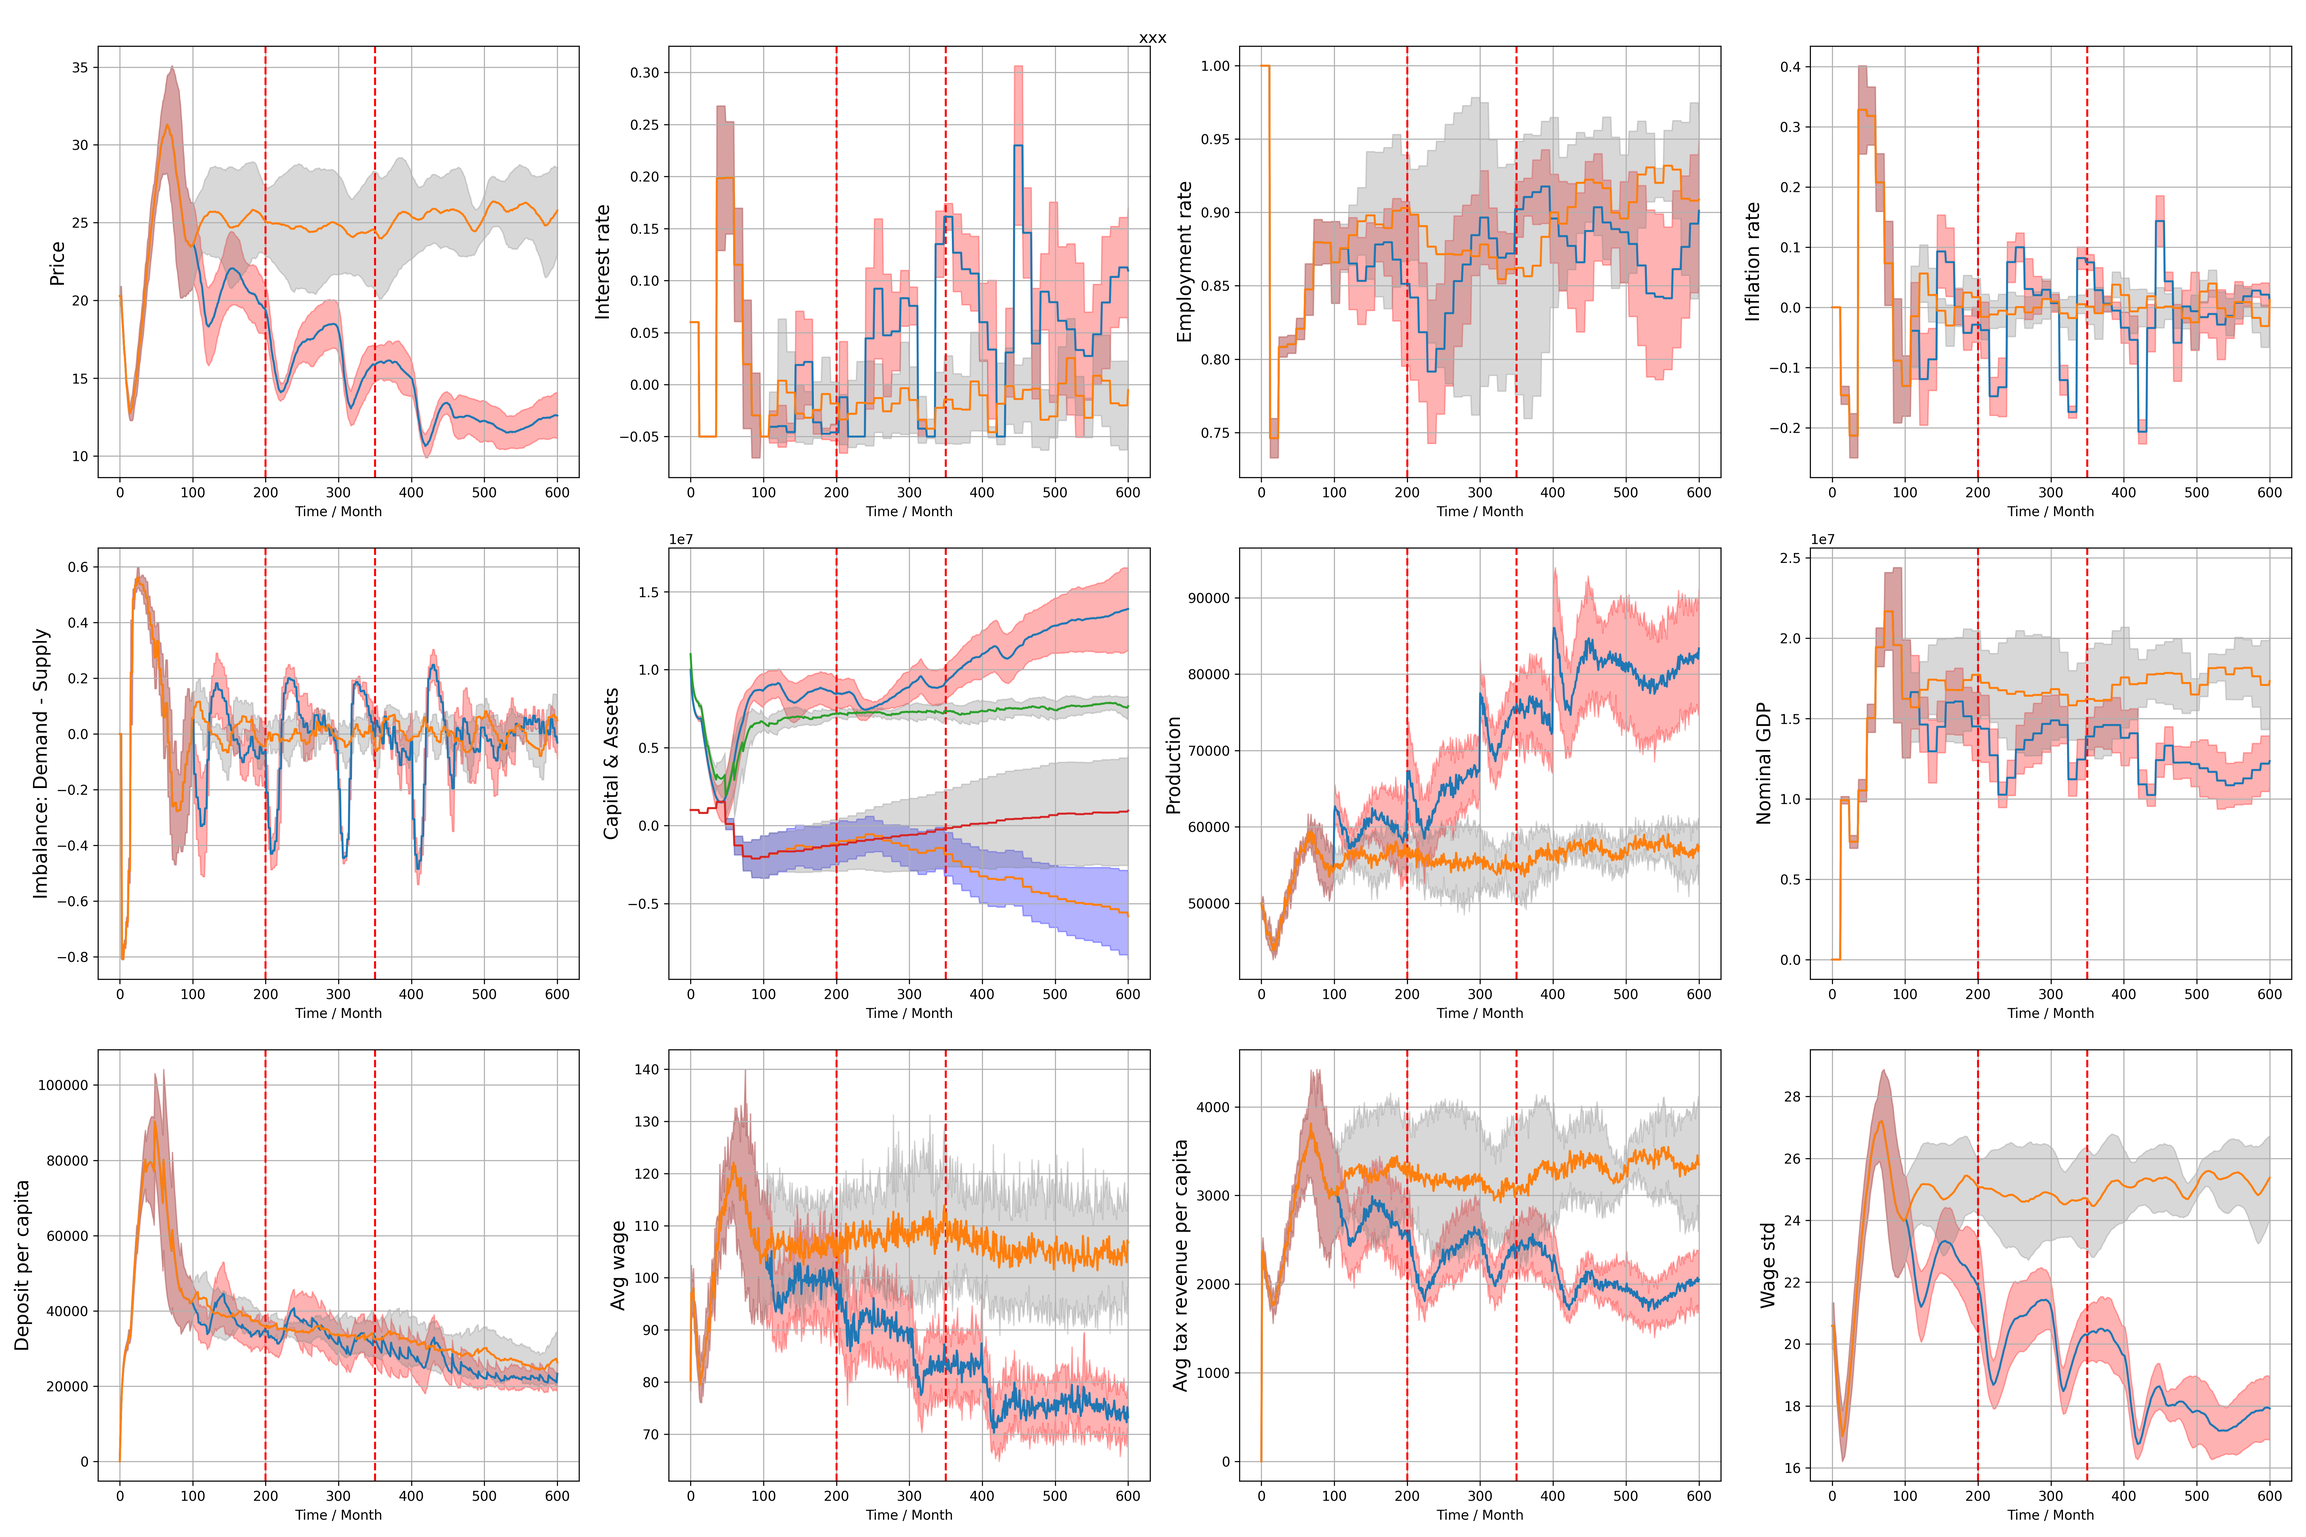
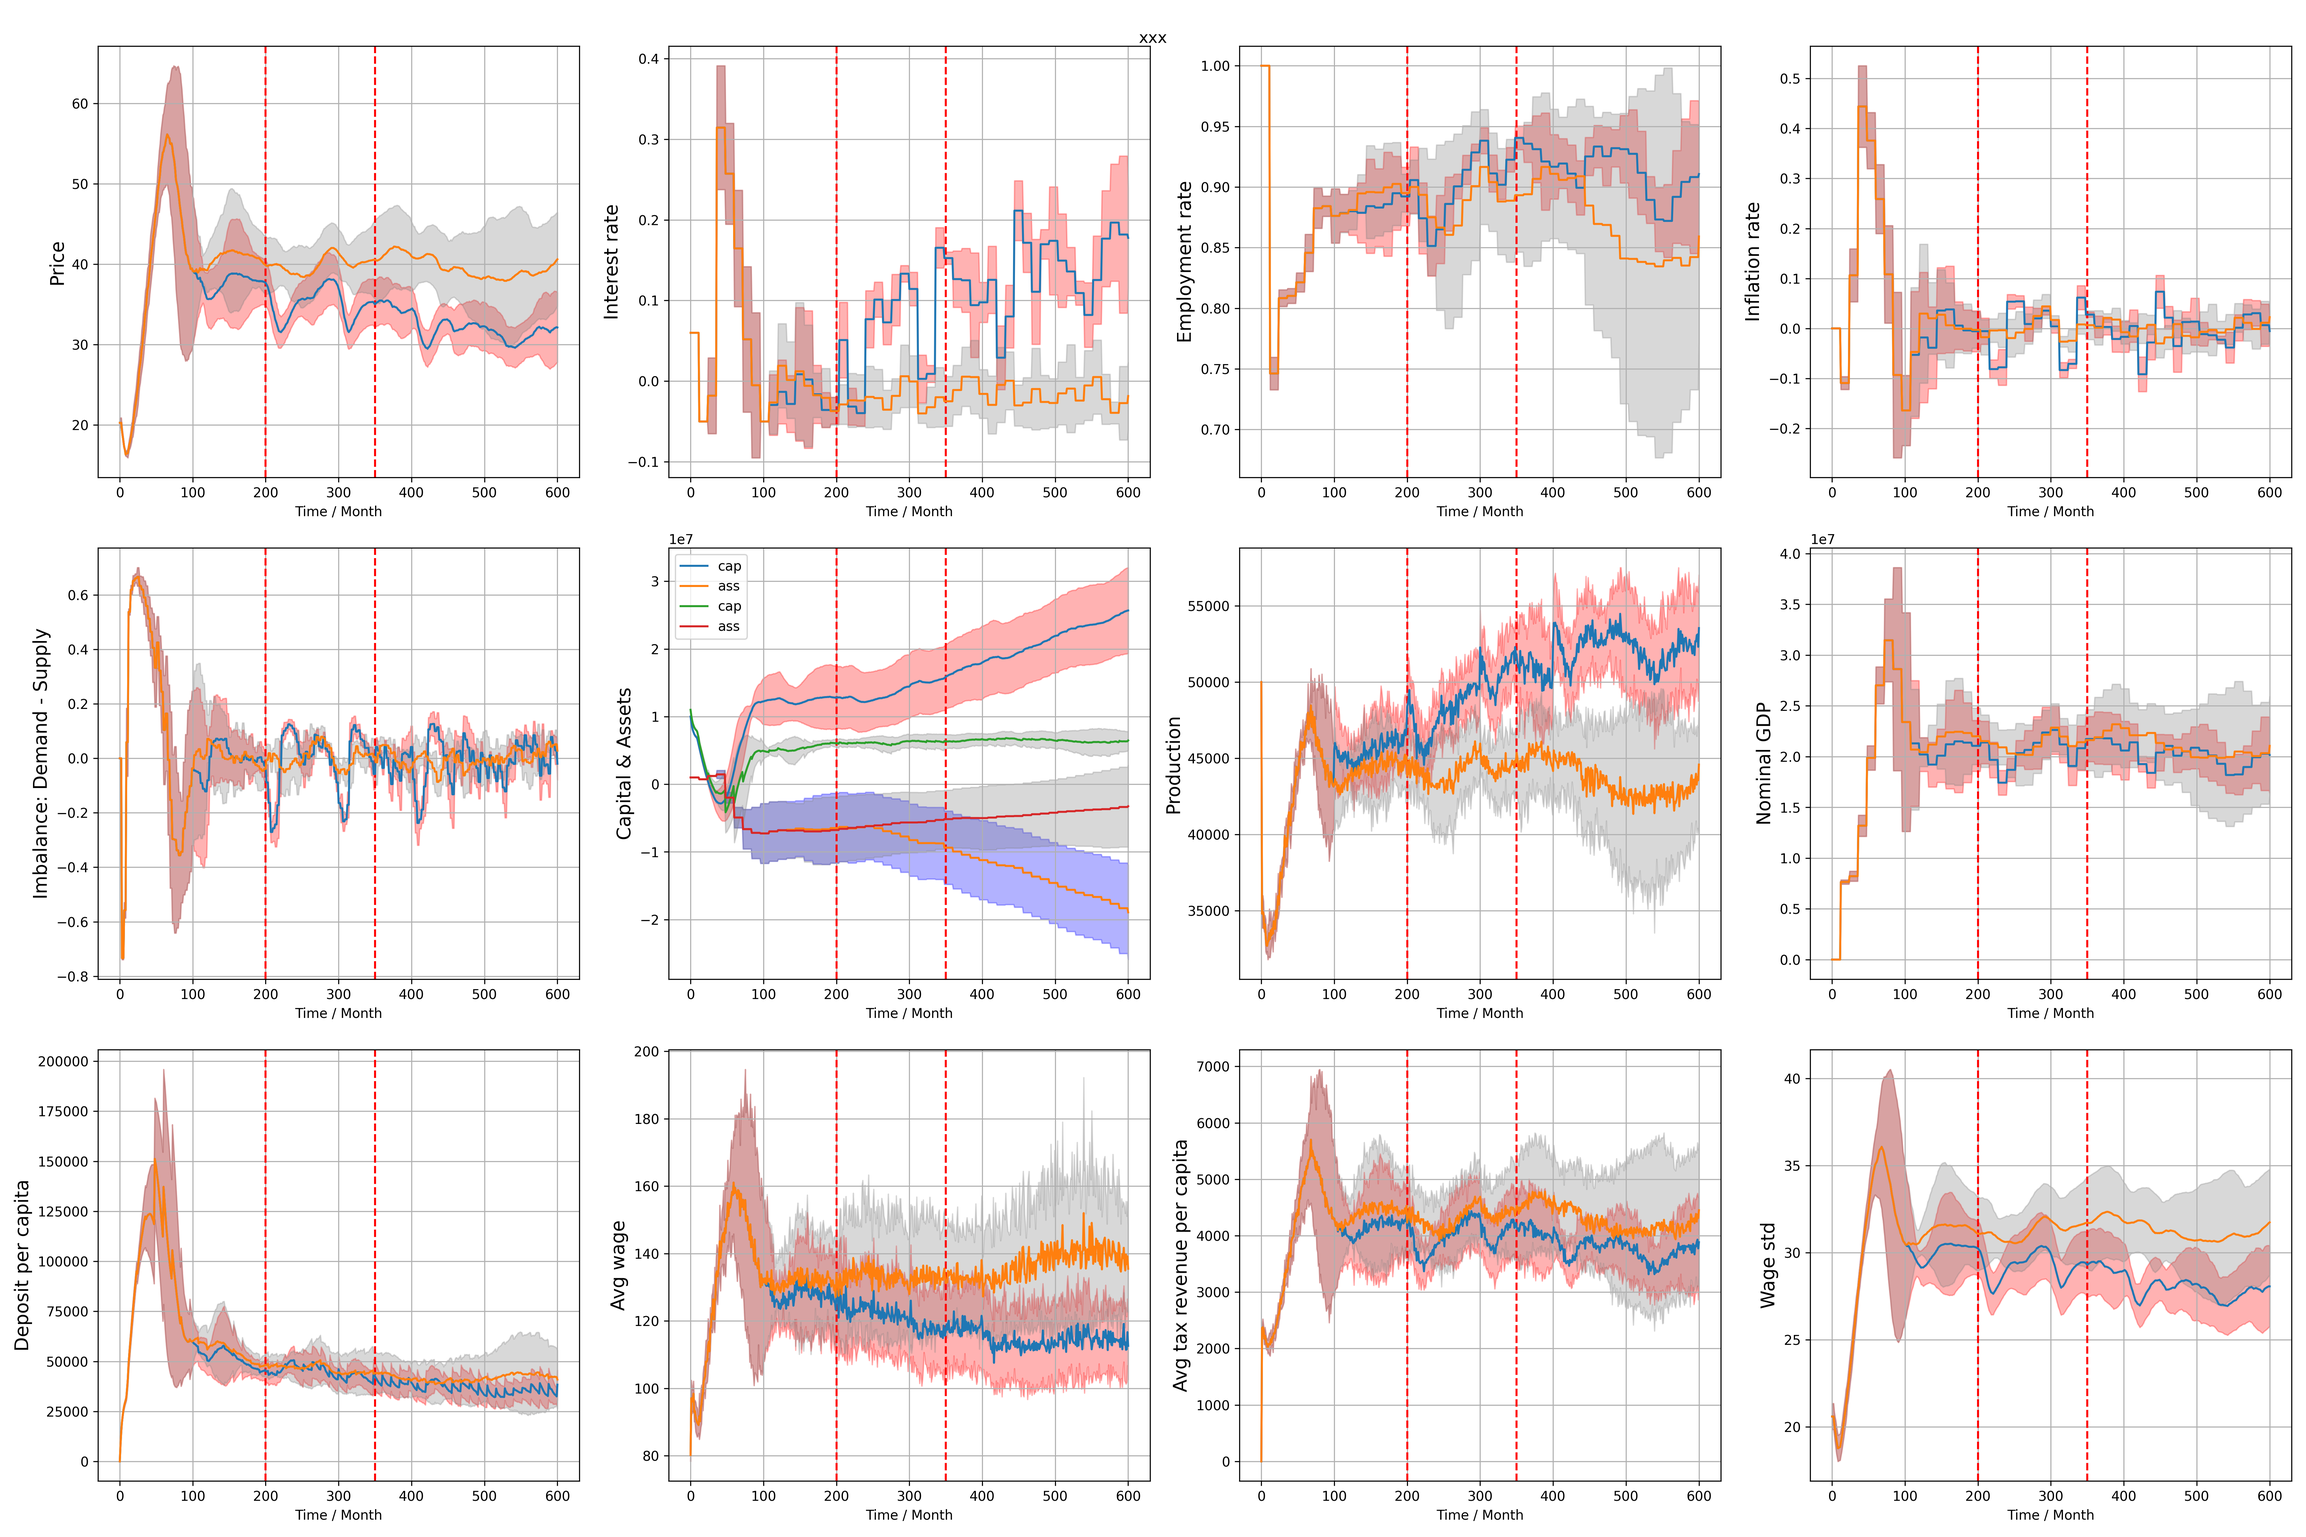
12

diff --git a/step_simulation.py b/step_simulation.py
@@ -1,0 +1,171 @@
+import numpy as np
+import random
+from utils import taxation, inflation, GDP, unemployment, init_agents, imbalance
+from copy import deepcopy
+from config import Configuration
+from src.agent import agent
+from src.firm import firm
+from src.bank import bank   
+from src.market import consumption
+
+
+
+def step_simulation(config:Configuration, event:bool, intervention:bool, step:int, length:int, firm:firm, bank:bank, agents:list[agent], log:dict[int:dict]):
+    '''simulate several steps of a simulation'''
+    random.seed(config.seed)
+    np.random.seed(config.seed)
+    
+    unem_rate = log[step]['unemployment_rate']
+    infla_rate = log[step]['inflation_rate']
+    Nominal_GDP = log[step]['GDP']
+    imba = log[step]['imbalance']
+    
+    for t in range(step+1, step+length+1):
+        ########################## 事 件 开 始 ##########################
+        # 降低就业意愿
+        # 产量减少，工资收入减少
+        # GDP下降
+        
+        # if event:
+        #     if t >= 500 and t <= 900:
+        #         work_state = []
+        #         for a in agents:
+        #             a.l = 1 if random.random() < 0.3 else 0
+        #             work_state.append(a.l)
+        
+        # if event:
+        #     if t == config.event_start:
+        #         a_pw = [a.pw for a in agents]
+
+        #     if t >= config.event_start and t <= config.event_end:
+        #         for a, pw in zip(agents, a_pw):
+        #             a.pw = (0.8 ** (1/(config.event_end-config.event_start))) ** (t-config.event_start) * pw # 在t=900时，就业意愿下降到t=500时的25%
+        #     work_state = [a.work_decision() for a in agents] # work decision
+        # else:
+        #     work_state = [a.work_decision() for a in agents] # work decision
+        work_state = [a.work_decision() for a in agents] # work decision
+        
+        if event and t in [100, 200, 300, 400]:
+            firm.k_capital *= 1.05
+            firm.k_labor = 1 - firm.k_capital
+            print(f'{t}, k_labor: {firm.k_labor}, k_capital: {firm.k_capital}')
+        ########################## 事 件 结 束 ##########################
+        
+        production = firm.produce(agents)               # 生产
+        wages = firm.pay_wage(agents)                   # 支付工资
+        taxes, wages_after_tax = taxation(wages)        # 计算个税
+        
+        for a, w in zip(agents, wages_after_tax):
+            a.z = w # update monthly income
+            bank.deposit(a.id, w + sum(taxes)/config.num_agents) # 再分配
+        
+        ########################## 干 预 开 始 ##########################
+        if t >= config.intervent_start and t <= config.intervent_end and intervention:
+            bank.natural_rate = max(bank.natural_rate * 1.002, 0.1)
+        ########################## 干 预 结 束 ##########################
+        
+        if t % 3 == 0:
+            imba = imbalance(agents, firm.P, firm.G, bank.deposits)
+            
+        ################################################
+        # consumption in random order 随 机 顺 序 消 费 #
+        ################################################
+        total_money, total_quantity, deposits = consumption(config, agents, firm.G, firm.P, deepcopy(bank.deposits))
+        firm.capital += total_money * (1-config.tax_rate_good)
+        
+        ######################################################
+        # price and wage adjustment 调整工资, 价格, 投入资本量 #
+        ######################################################
+        firm.wage_adjustment(agents, imba)
+        firm.price_adjustment(imba)
+        firm.cap_adjustment(imba)
+        firm.G -= total_quantity
+        bank.deposits = deposits
+        for a in agents:
+            bank.deposit(a.id, total_money*config.tax_rate_good/config.num_agents) # 再分配
+        
+        ############################
+        # annual operation 年度调整 #
+        ############################
+        if t % 12 == 0:
+            bank.interest(agents)                # interest payment
+            unem_rate = unemployment(log)
+            infla_rate = inflation(log)
+            bank.rate_adjustment(unem_rate, infla_rate) 
+            Nominal_GDP = GDP(log)
+        
+        log[t] = {
+            'year': t // 12.1 + 1,
+            'work_state': work_state, 
+            'wage': [a.w for a in agents],
+            'price': firm.P, 
+            'rate': bank.rate, 
+            'production': production,
+            'imbalance':imba,
+            'inflation_rate': infla_rate,
+            'taxes': sum(taxes),
+            'unemployment_rate': unem_rate,
+            'deposit': deepcopy(bank.deposits),
+            'avg_wage': sum([a.w for a in agents])/sum([1 if a.l else 0 for a in agents]),
+            'GDP': Nominal_GDP,
+            'capital': firm.capital,
+            'assets': bank.assets,
+            }
+        
+        if t % 6 == 0 and t > 30:
+            for a in agents:
+                a.adjust(t, log)
+    print('finish', t)
+    return firm, bank, agents, log
+
+if __name__ == '__main__':
+    from utils import plot_log, plot_bar
+    config = Configuration()
+    
+    F = firm(A=config.A, 
+             alpha_w=config.alpha_w, 
+             alpha_p=config.alpha_p,
+             alpha_c=config.alpha_c,
+             init_good=config.init_good,
+             init_cap=config.init_cap,
+             k_labor=config.k_labor,
+             k_capital=config.k_capital,
+             )
+    B = bank(rn=config.rn, 
+             pi_t=config.pi_t, 
+             un=config.un, 
+             alpha_pi=config.alpha_pi, 
+             alpha_u=config.alpha_u, 
+             num_agents=config.num_agents, 
+             rate_min=config.r_min,
+             init_assets=config.init_assets,
+             )
+    agents = init_agents(config)
+    
+    F.P = np.mean([a.w*a.pc for a in agents]) # t=0 initial price
+    unem_rate, infla_rate, Nominal_GDP, imba = 0., 0., 0., 0.
+    log = {
+        0:
+            {
+                'year': 0,
+                'work_state': [a.l for a in agents], 
+                'wage': [a.w for a in agents],
+                'price': F.P, 
+                'rate': B.rate, 
+                'production': F.G,
+                'imbalance': imba,
+                'inflation_rate': infla_rate,
+                'taxes': 0,
+                'unemployment_rate': unem_rate,
+                'deposit': {i: 0.0 for i in range(config.num_agents)},
+                'avg_wage': sum([a.w for a in agents])/config.num_agents,
+                'GDP': Nominal_GDP,
+                'capital': F.capital,
+                'assets': B.assets,
+                }
+            }
+    F, B, agents, log = step_simulation(config, event=False, intervention=False, step=0, length=100, firm=deepcopy(F), bank=deepcopy(B), agents=deepcopy(agents), log=deepcopy(log))
+    
+    F, B, agents, log = step_simulation(config, event=False, intervention=False, step=100, length=200, firm=deepcopy(F), bank=deepcopy(B), agents=deepcopy(agents), log=deepcopy(log))
+    
+    plot_log('./figs/log_step.png', log, config)

diff --git a/main.py b/main.py
@@ -8,6 +8,7 @@ from src.firm import firm
 from src.bank import bank   
 from src.market import consumption
 
+
 def simulation(config:Configuration, event=False, intervention=False):
     '''one episode of simulation'''
     random.seed(config.seed)
@@ -81,16 +82,13 @@ def simulation(config:Configuration, event=False, intervention=False):
         # else:
         #     work_state = [a.work_decision() for a in agents] # work decision
         work_state = [a.work_decision() for a in agents] # work decision
-        ########################## 事 件 结 束 ##########################
         
         if event and t in [100, 200, 300, 400]:
-            F.k_capital *= 1.1
+            F.k_capital *= 1.05
             F.k_labor = 1 - F.k_capital
-            print(f'k_labor: {F.k_labor}, k_capital: {F.k_capital}')
-            
-            
-            
-            
+            print(f'{t}, k_labor: {F.k_labor}, k_capital: {F.k_capital}')
+        ########################## 事 件 结 束 ##########################
+        
         production = F.produce(agents) # 生产
         wages = F.pay_wage(agents)     # 支付工资
         taxes, wages_after_tax = taxation(wages)        # 计算个税
@@ -121,7 +119,9 @@ def simulation(config:Configuration, event=False, intervention=False):
         # consumption in random order 随 机 顺 序 消 费 #
         ################################################
         total_money, total_quantity, deposits = consumption(config, agents, F.G, F.P, deepcopy(B.deposits))
-        F.capital += total_money
+        F.capital += total_money * (1-config.tax_rate_good)
+        # print(t, total_money, total_money*config.tax_rate_good)
+        
         # print(t, '总消费量: ', total_money)
         
         ######################################################
@@ -132,6 +132,8 @@ def simulation(config:Configuration, event=False, intervention=False):
         F.cap_adjustment(imba)
         F.G -= total_quantity
         B.deposits = deposits
+        for a in agents:
+            B.deposit(a.id, total_money*config.tax_rate_good/config.num_agents) # 再分配
         
         ############################
         # annual operation 年度调整 #

diff --git a/utils.py b/utils.py
@@ -188,10 +188,10 @@ def plot_bar(img_name:str, logs:list[dict], logs_compare:list[dict], config:Conf
     axs[1, 0].plot(x, imbas_mean); axs[1, 0].set_ylabel('Imbalance: Demand - Supply', fontsize=14)
     axs[1, 0].fill_between(x, imbas_min, imbas_max, color='red', alpha=0.3)
     
-    axs[1, 1].plot(x, capitals_mean); axs[1, 1].set_ylabel('Capital & Assets', fontsize=14)
+    axs[1, 1].plot(x, capitals_mean, label='cap'); axs[1, 1].set_ylabel('Capital & Assets', fontsize=14)
     axs[1, 1].fill_between(x, capitals_min, capitals_max, color='red', alpha=0.3)
-    axs[1, 1].plot(x, assets_mean)
-    axs[1, 1].fill_between(x, assets_min, assets_max, color='blue', alpha=0.3)
+    axs[1, 1].plot(x, assets_mean, label='ass')
+    axs[1, 1].fill_between(x, assets_min, assets_max, color='blue', alpha=0.3); axs[1, 1].legend()
     
     axs[1, 2].plot(x, productions_mean); axs[1, 2].set_ylabel('Production', fontsize=14)
     axs[1, 2].fill_between(x, productions_min, productions_max, color='red', alpha=0.3)
@@ -293,10 +293,10 @@ def plot_bar(img_name:str, logs:list[dict], logs_compare:list[dict], config:Conf
         axs[1, 0].plot(x, imbas_mean); axs[1, 0].set_ylabel('Imbalance: Demand - Supply', fontsize=14)
         axs[1, 0].fill_between(x, imbas_min, imbas_max, color='gray', alpha=0.3)
         
-        axs[1, 1].plot(x, capitals_mean); axs[1, 1].set_ylabel('Capital & Assets', fontsize=14)
+        axs[1, 1].plot(x, capitals_mean, label='cap'); axs[1, 1].set_ylabel('Capital & Assets', fontsize=14)
         axs[1, 1].fill_between(x, capitals_min, capitals_max, color='gray', alpha=0.3)
-        axs[1, 1].plot(x, assets_mean)
-        axs[1, 1].fill_between(x, assets_min, assets_max, color='gray', alpha=0.3)
+        axs[1, 1].plot(x, assets_mean, label='ass')
+        axs[1, 1].fill_between(x, assets_min, assets_max, color='gray', alpha=0.3); axs[1, 1].legend()
     
         axs[1, 2].plot(x, productions_mean); axs[1, 2].set_ylabel('Production', fontsize=14)
         axs[1, 2].fill_between(x, productions_min, productions_max, color='gray', alpha=0.3)

diff --git a/config.py b/config.py
@@ -6,7 +6,7 @@ class Configuration:
     event_start = 200
     event_end = 350
     intervent_start = 200
-    intervent_end = 400
+    intervent_end = 600
     
     #####################################
     ##           仿 真 参 数           ##
@@ -20,14 +20,14 @@ class Configuration:
     ##           企业模型参数           ##
     #####################################
     
-    A = 1.0         # 生产率
-    alpha_w = 0.05
-    alpha_p = 0.10
+    A = 1.0                 # 生产率
+    alpha_w = 0.05          # 工资调整系数
+    alpha_p = 0.10          # 价格调整系数
     alpha_c = 0.05
     init_good = 50000       # 初始商品库存
     init_cap = 1e7          # 初始资本
-    k_labor = 0.5           # 柯布道格拉斯函数,劳动弹性系数
-    k_capital = 1 - k_labor # 柯布道格拉斯函数,资本弹性系数
+    k_labor = 0.5           # 柯布道格拉斯函数, 劳动弹性系数
+    k_capital = 1 - k_labor # 柯布道格拉斯函数, 资本弹性系数
     
     #####################################
     ##           银行模型参数           ##
@@ -59,4 +59,4 @@ class Configuration:
     #####################################
     ##           市场模型参数           ##
     #####################################
-    tax_rate_good = 0.15
+    tax_rate_good = 0.02

diff --git a/src/firm.py b/src/firm.py
@@ -23,7 +23,7 @@ class firm:
         
         self.k_labor = k_labor   
         self.k_capital = k_capital
-        self.cap4product = 1e-4 * init_cap  # init capital for production
+        self.cap4product = 5e-5 * init_cap  # init capital for production
 
     def produce(self, agent_list:list[agent],):
         '''
